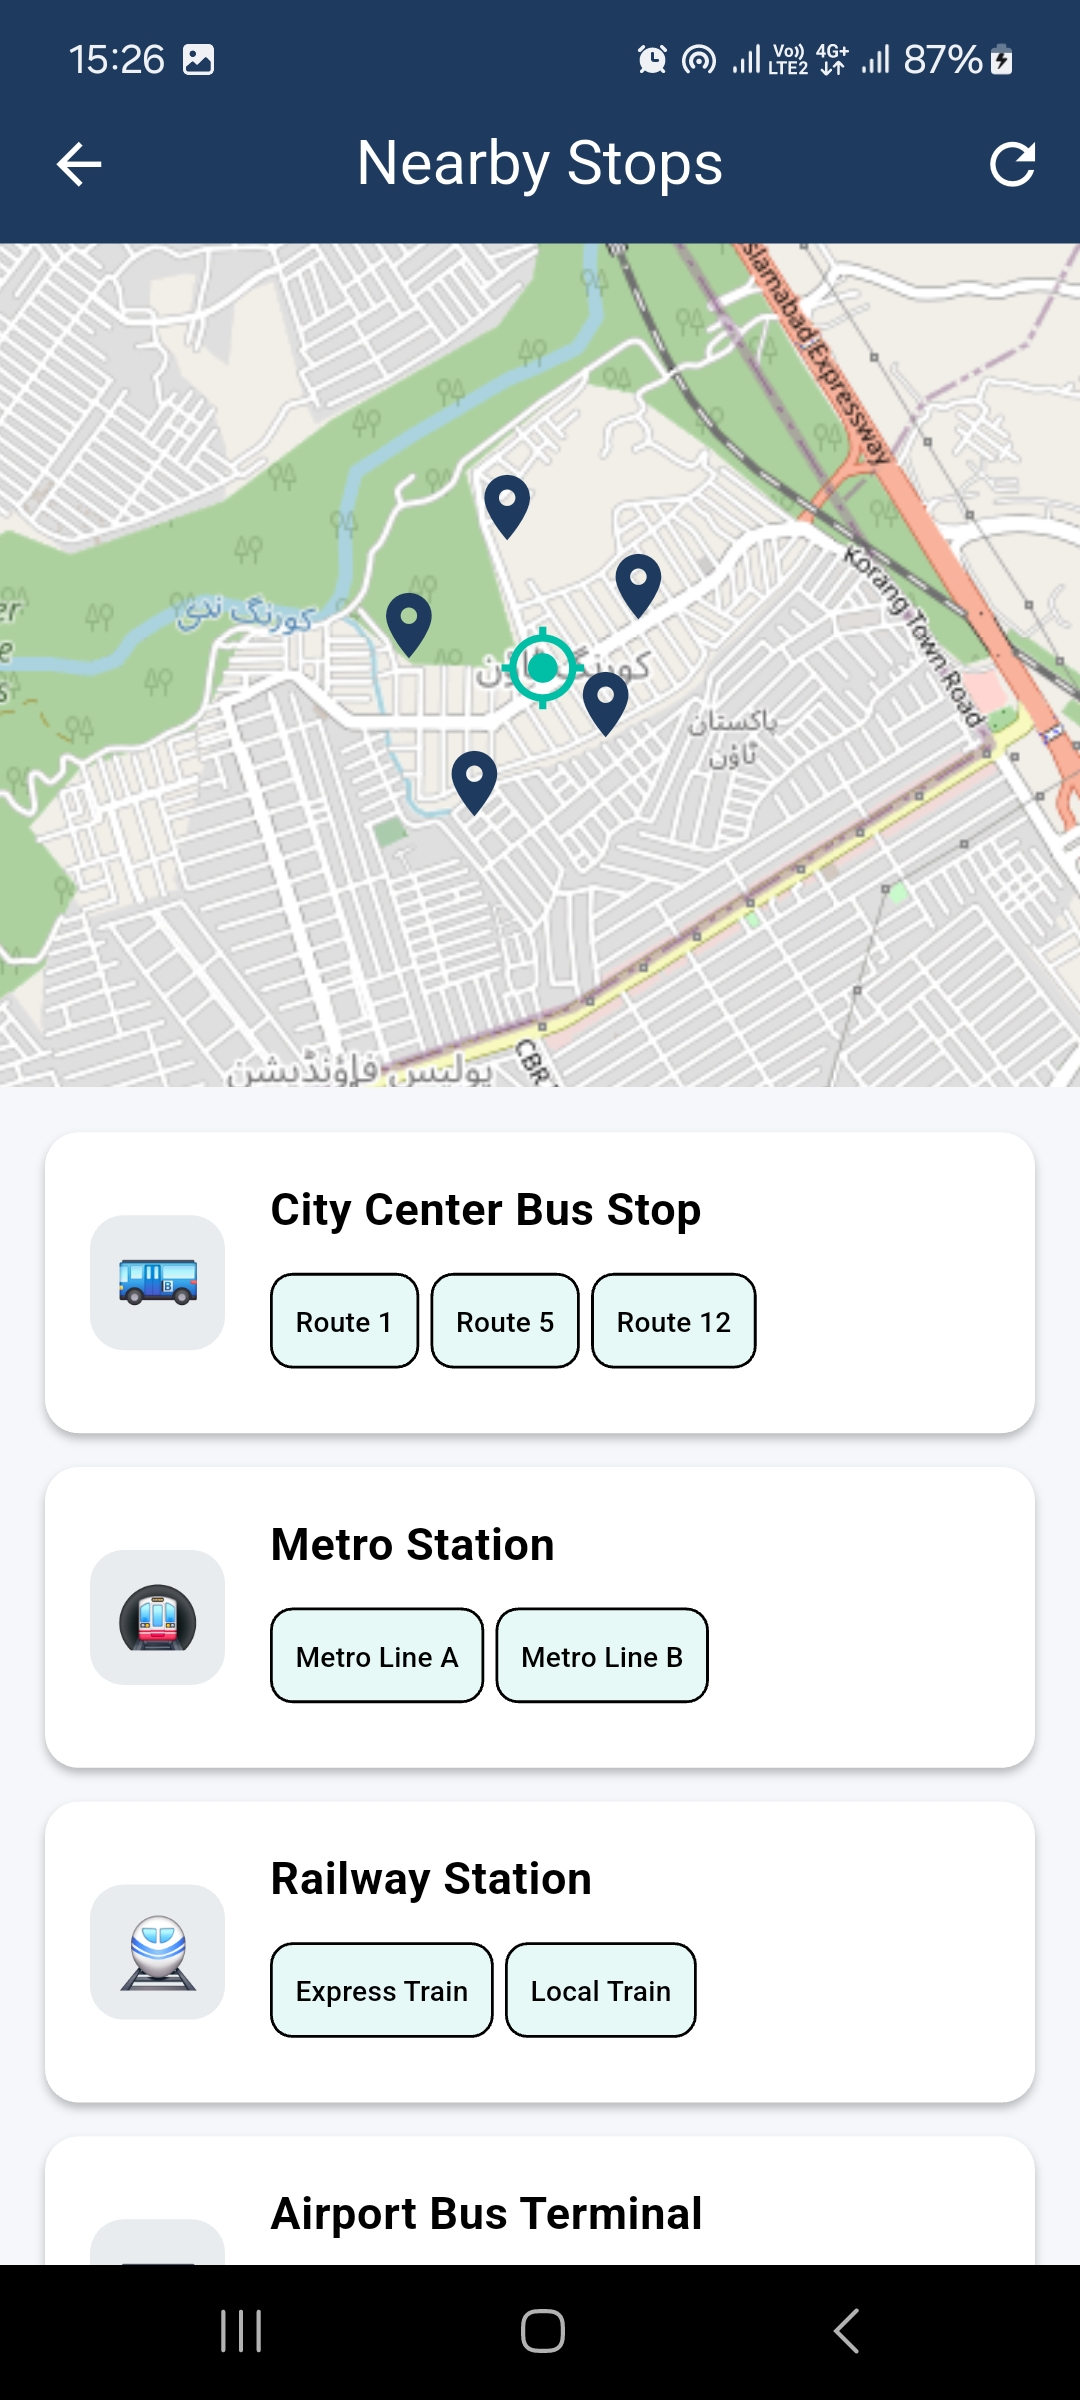
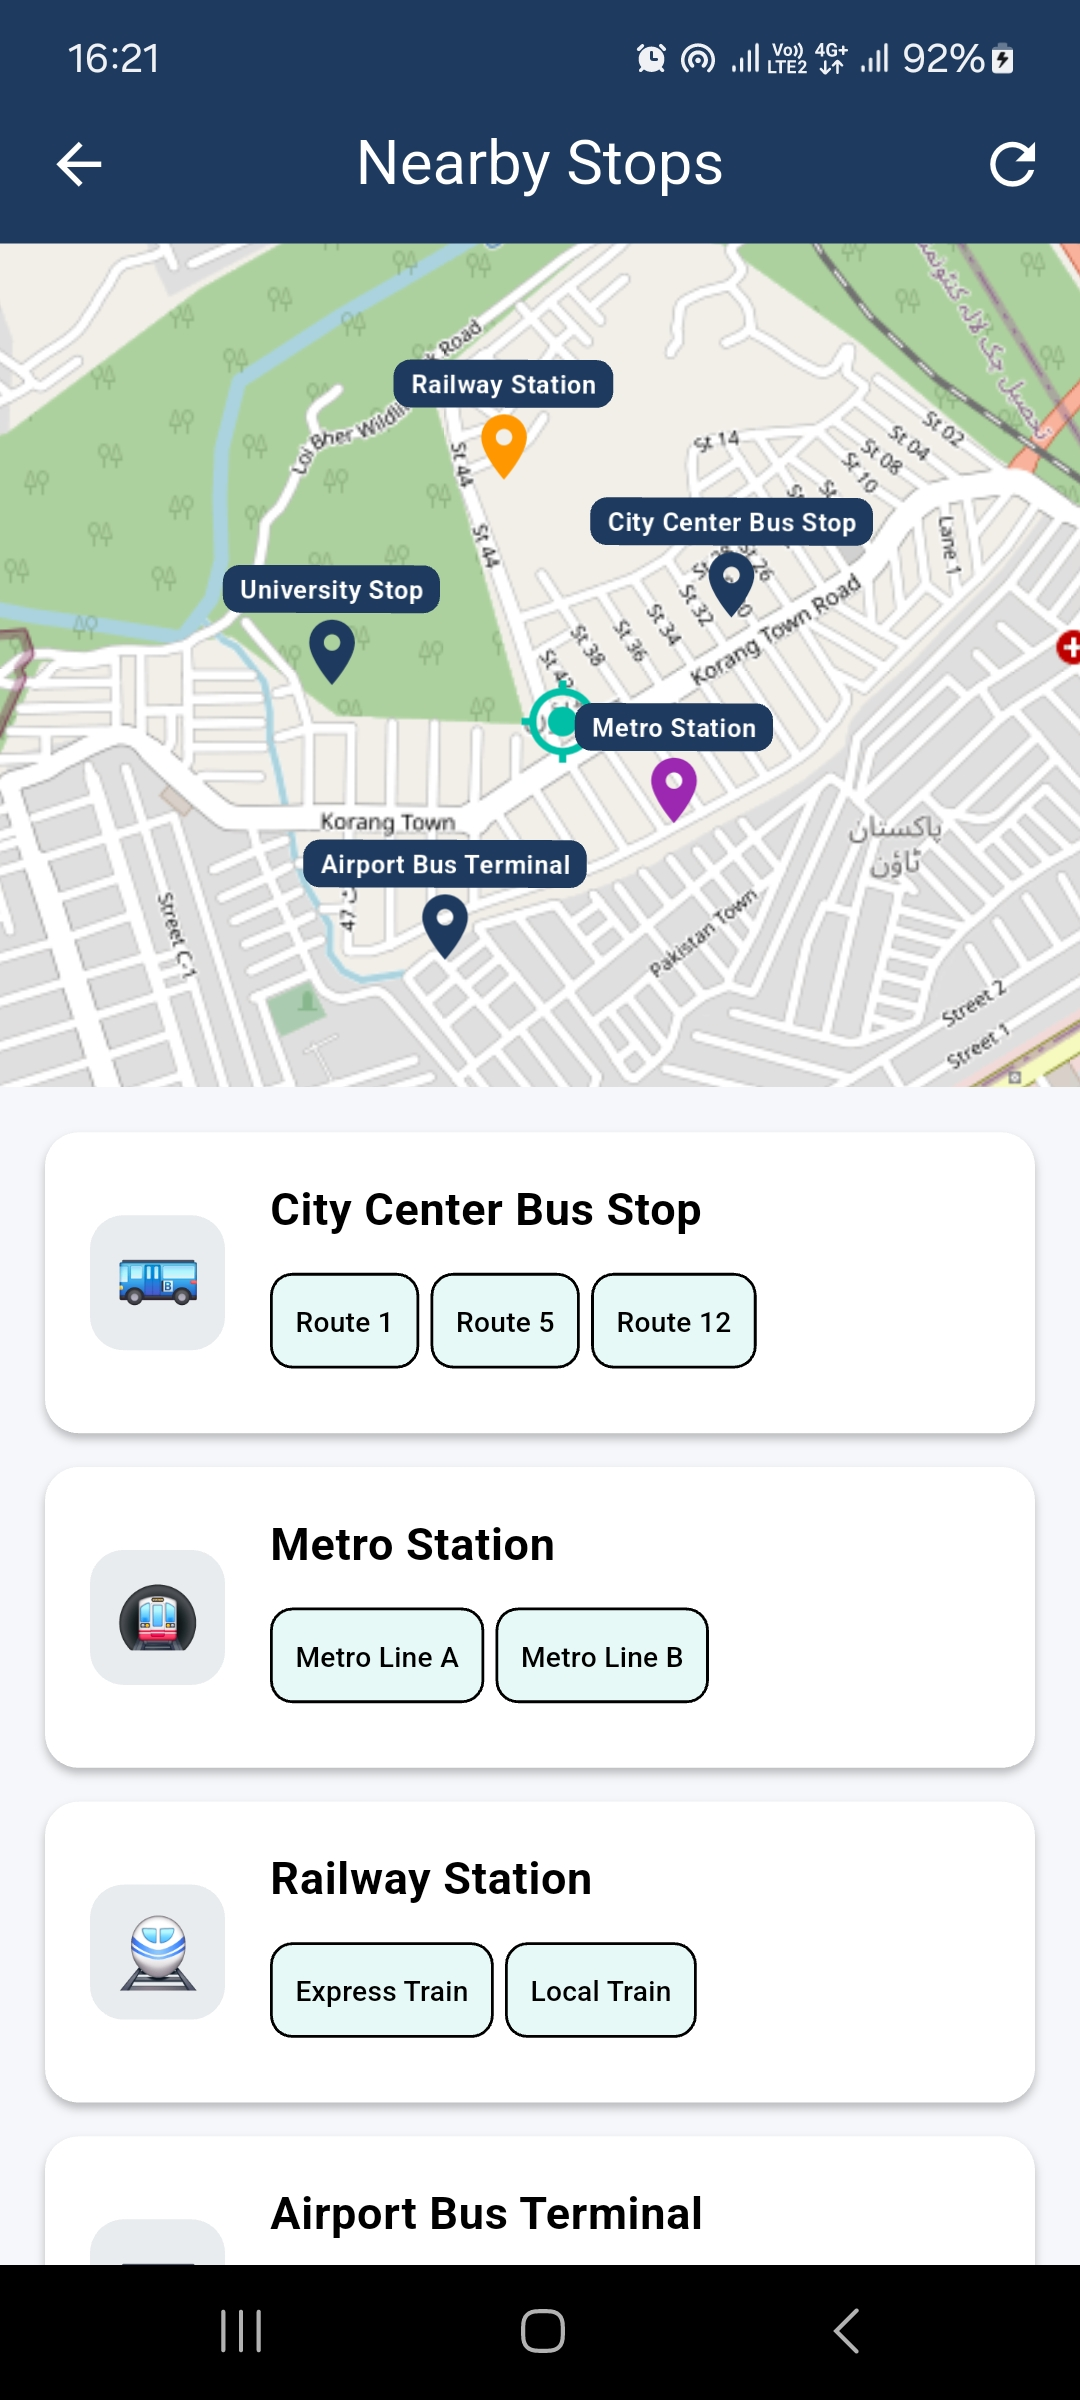
graphics update

diff --git a/lib/presentation/screens/nearby_stops/nearby_stops_screen.dart b/lib/presentation/screens/nearby_stops/nearby_stops_screen.dart
@@ -95,14 +95,44 @@ class _NearbyStopsScreenState extends State<NearbyStopsScreen> {
                               size: 32,
                             ),
                           ),
-                          // Stop markers
+                          // Stop markers with labels
                           ...state.stops.map(
                                 (stop) => Marker(
                               point: LatLng(stop.latitude, stop.longitude),
-                              child: Icon(
-                                Icons.location_on,
-                                color: AppTheme.primaryColor,
-                                size: 28,
+                              width: 120,
+                              height: 60,
+                              child: Column(
+                                children: [
+                                  Container(
+                                    padding: const EdgeInsets.symmetric(
+                                      horizontal: 6,
+                                      vertical: 2,
+                                    ),
+                                    decoration: BoxDecoration(
+                                      color: AppTheme.primaryColor,
+                                      borderRadius: BorderRadius.circular(6),
+                                    ),
+                                    child: Text(
+                                      stop.name,
+                                      style: const TextStyle(
+                                        color: Colors.white,
+                                        fontSize: 9,
+                                        fontWeight: FontWeight.bold,
+                                      ),
+                                      maxLines: 1,
+                                      overflow: TextOverflow.ellipsis,
+                                    ),
+                                  ),
+                                  Icon(
+                                    Icons.location_on,
+                                    color: stop.stopType == 'metro'
+                                        ? Colors.purple
+                                        : stop.stopType == 'train'
+                                        ? Colors.orange
+                                        : AppTheme.primaryColor,
+                                    size: 28,
+                                  ),
+                                ],
                               ),
                             ),
                           ),

diff --git a/lib/core/services/notification_service.dart b/lib/core/services/notification_service.dart
@@ -7,6 +7,11 @@ class NotificationService {
   FlutterLocalNotificationsPlugin();
 
   Future<void> initialize() async {
+
+    // Print token for testing
+    // final token = await getToken();
+    // print('FCM Token: $token');
+
     // Request permission
     await _firebaseMessaging.requestPermission(
       alert: true,
